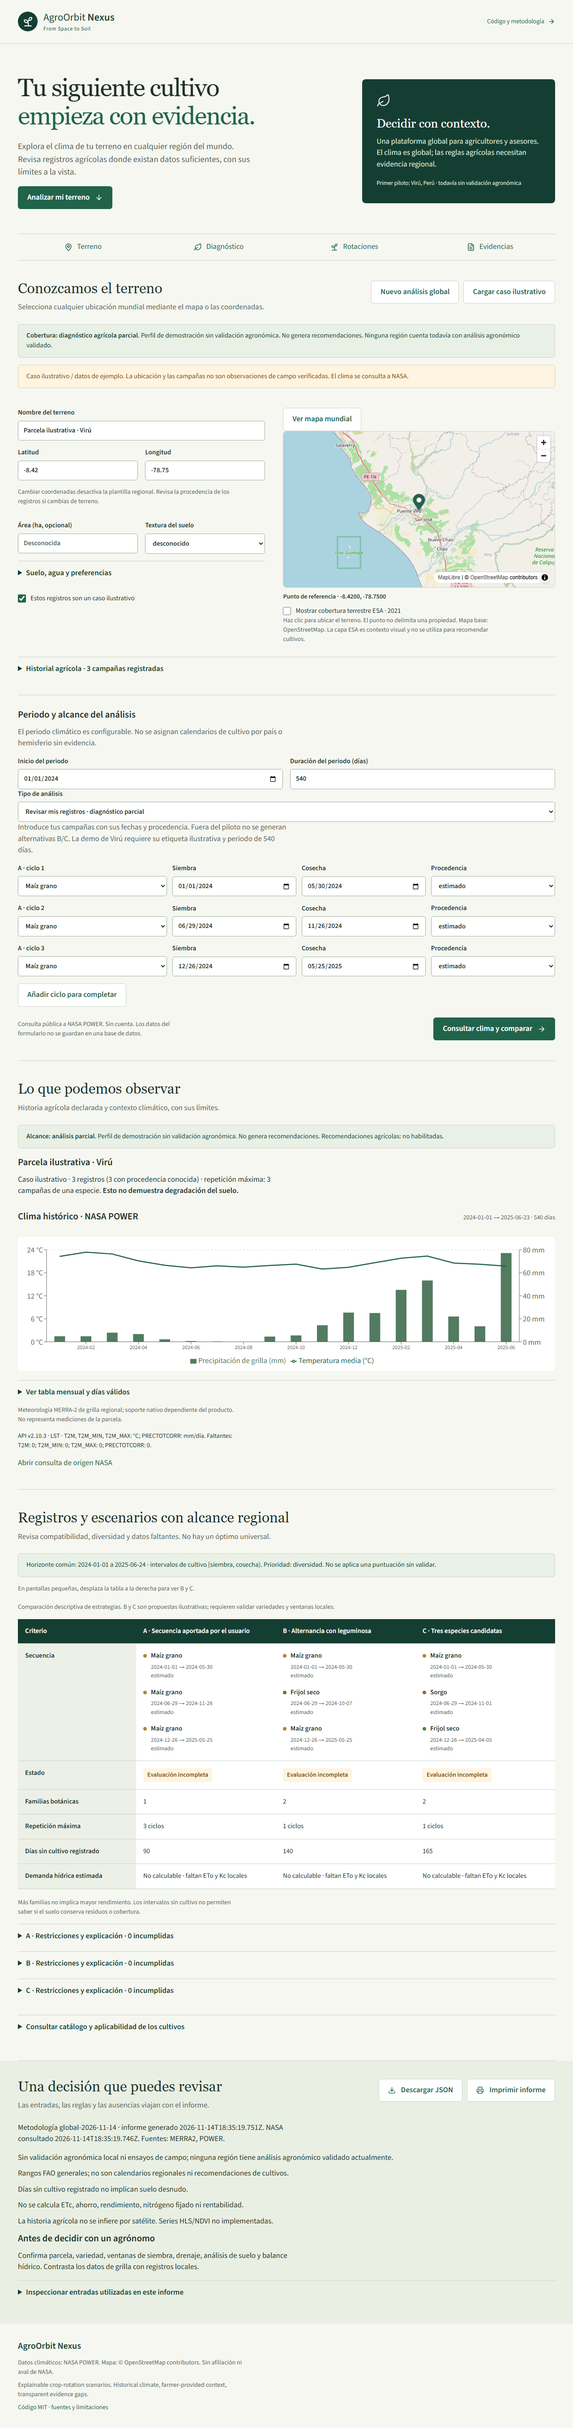
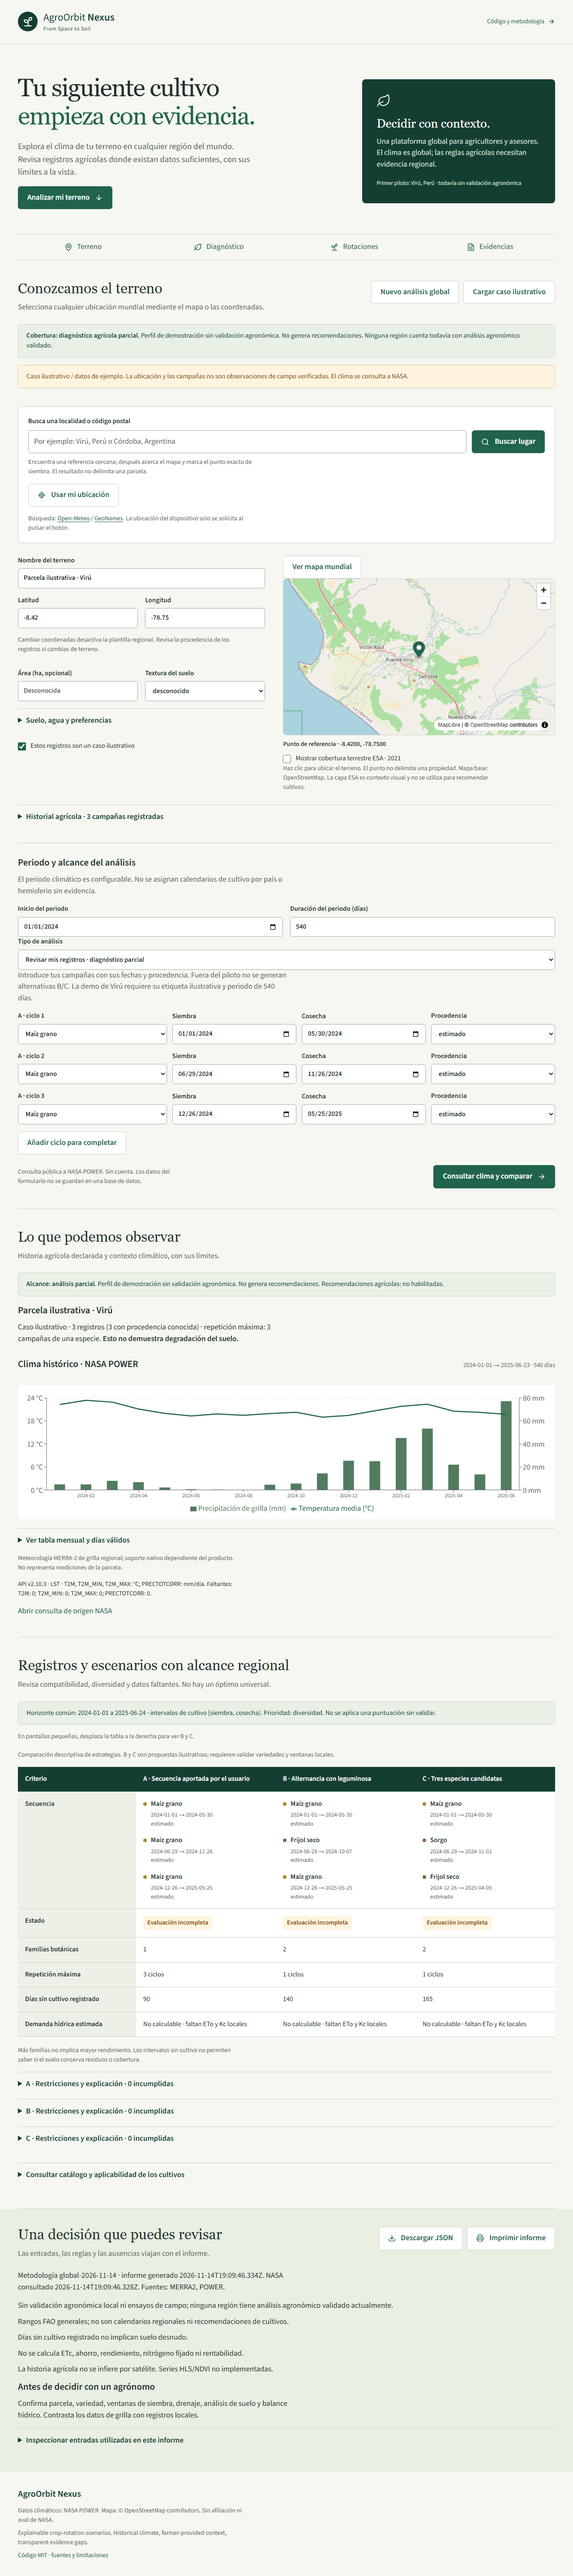
docs(terreno): registrar fuentes y pruebas de búsqueda accesible

diff --git a/docs/LOCATION_SEARCH.md b/docs/LOCATION_SEARCH.md
@@ -1,0 +1,28 @@
+# Encontrar el terreno
+
+Actualización 2026-11-14: buscador global de localidades/códigos postales y ubicación del dispositivo, accesibles desde el perfil agrícola.
+
+## Recorrido
+
+1. Escribir una localidad cercana; añadir país o región ayuda a distinguir homónimos. Pulsar «Buscar lugar» o Enter, sin enviar todavía el análisis climático.
+2. Elegir entre hasta cinco resultados con región, país y coordenadas. El mapa se centra y se acerca al punto de referencia.
+3. Ajustar el lugar de siembra con zoom/clic en el mapa o coordenadas. La búsqueda no identifica automáticamente una parcela ni sus límites.
+4. Si el usuario está en el terreno, «Usar mi ubicación» pide permiso al navegador y muestra la precisión aproximada comunicada por el dispositivo. No se consulta GPS al abrir la página ni se hace seguimiento continuo. Si cambió el punto mientras llegaba la respuesta GPS, se conserva la selección manual.
+
+Las búsquedas no generan recomendaciones ni activan el perfil regional de Virú. Se conserva la protección de alcance global. El nombre del terreno y los datos agronómicos siguen siendo aportados por el usuario.
+
+## Fuente y operación
+
+[Open-Meteo Geocoding](https://open-meteo.com/en/docs/geocoding-api), basado en GeoNames; atribución en la interfaz. Sirve para localidades/códigos postales, no garantiza nombres de fundos, direcciones de calles ni catastro. Solo se consulta tras una acción explícita, con término de 3–120 caracteres y máximo cinco coincidencias. No hay autocompletado por cada tecla.
+
+API de aplicación: `GET /api/locations?q=...`, validación Zod, timeout upstream 10 s, deduplicación y caché acotada a 128 términos por 24 h; máximo una nueva consulta por segundo y proceso. Fallos, ausencia de resultados y rate limit tienen mensajes y conservan las alternativas manuales. Para varias instancias se necesita limitación compartida y revisar cuotas del proveedor.
+
+Se usa el servicio gratuito para el prototipo no comercial; [sus condiciones](https://open-meteo.com/en/terms) requieren otro plan para uso comercial. Los datos tienen atribución CC BY 4.0; no se confunde esa licencia con las condiciones de acceso al servicio. No se añadieron claves, costes ni paquetes. El clima continúa consultándose a NASA POWER.
+
+La geolocalización requiere permiso y un contexto seguro; localhost permite probarla en navegadores compatibles. Puede fallar o ser poco precisa en un equipo de escritorio. La posición se mantiene en el formulario; al consultar clima se usan esas coordenadas. La app no envía la precisión GPS al buscador ni determina propiedad del terreno.
+
+## Evidencia
+
+`node scripts/verify-geocoding.mjs`: consulta real de «Virú, Perú», HTTP 200, cinco coincidencias; URL/fecha y respuesta original en `docs/evidence/search/`. No son cinco parcelas de campo validadas.
+
+Pruebas nuevas: normalización/ambigüedad/cero geográfico, límites, error upstream, cache/deduplicación; navegador con búsqueda real, actualización de coordenadas, ausencia de solicitud climática automática, GPS emulado con precisión, permiso denegado y caída simulada del buscador. El GPS real de hardware no fue medido. Capturas e inspección accesible: `docs/evidence/search/`.

diff --git a/docs/STATUS.md b/docs/STATUS.md
@@ -4,6 +4,8 @@ Actualizado: 2026-11-14, America/Lima. Al inicio había solo 16 documentos, sin 
 
 ## Actualización obligatoria de alcance global
 
+**Búsqueda más sencilla (misma fecha):** localidades/códigos postales con Open-Meteo/GeoNames, elección de coincidencia y acercamiento del mapa; GPS bajo permiso con precisión reportada y errores manejados. No se localizan límites ni se recomiendan cultivos por una búsqueda. Total actual: 69 pruebas unitarias/API aprobadas, 19 e2e aprobadas y dos repeticiones de capa omitidas. Lint/tipado/build correctos; consulta geocoding real guardada en evidence/search. GPS comprobado mediante emulación, no medición de hardware. La primera pasada detectó enlaces de atribución sin subrayado distinguible; corregidos y suite completa repetida. Véase LOCATION_SEARCH. Los totales globales anteriores de abajo corresponden al hito previo.
+
 Inicio mundial sin ubicación/campañas precargadas; modo clima global y revisión parcial de registros. Catálogo ampliable y perfiles regionales separados; plantilla de Virú limitada por coordenadas, modo ilustrativo y horizonte. Ninguna región validada ni recomendaciones habilitadas. Idiomas por registros de nombres ES/EN, sin interfaz completamente traducida. Capa contextual ESA WorldCover 2021 real y opcional, con atribución, año y límites; HLS/NDVI sigue pendiente.
 
 Seis consultas POWER reales verificadas (Perú, Estados Unidos, Francia, Kenia, India, Australia). Nueva pasada: 62 unitarias/API; 10 e2e aprobadas y dos comprobaciones de capa omitidas deliberadamente en móvil/tablet, con capa real probada en escritorio. Tipado/lint/build correctos. Detalles y contrato de extensión en GLOBAL_SCOPE; evidencia en evidence/global. La tabla histórica siguiente describe el hito inicial y no limita el alcance mundial actual.

diff --git a/docs/VALIDATION.md b/docs/VALIDATION.md
@@ -4,6 +4,8 @@ Entorno: Windows/PowerShell, Node 24.20.0, npm 11.19.0, Next 16.4.6. Zona de reg
 
 ## Ampliación global (misma fecha)
 
+**Hito de búsqueda posterior:** 69 unitarias/API en cuatro archivos, 19 e2e aprobadas y 2 omitidas de 21 configuradas. Nuevas pruebas de localidad real, elección ambigua, coordenadas actualizadas sin iniciar clima, GPS emulado con permiso/precisión, permiso denegado y buscador caído conservando el punto. Consulta real «Virú, Perú» HTTP 200; GPS físico no probado. Primera pasada: 9 fallos de accesibilidad `link-in-text-block` por enlaces nuevos de atribución; se subrayaron y la suite completa pasó. `npm run lint`, `typecheck`, `build` y detector Impeccable [] ejecutados. Evidencias específicas en evidence/search y LOCATION_SEARCH.
+
 62 pruebas unitarias/API aprobadas en tres archivos. Casos nuevos: seis fixtures NASA de países/hemisferios distintos, ausencia de recomendaciones globales, intentos de usar perfil peruano fuera de ámbito, periodos configurables, coordenadas polares y antimeridiano, revisión sin evidencia rechazada, catálogo ampliable y fallback de idioma. Tipado, lint y build ejecutados después de modificar el modelo.
 
 Playwright: 10 aprobadas y 2 omitidas explícitamente de 12 configuradas. Flujo global con consultas reales de California/India/Australia y JSON en escritorio/móvil/tablet; demo regional y error controlado conservados. WorldCover real probada en escritorio; esas dos pruebas de red no se duplicaron en móvil/tablet. axe sin violaciones en los estados globales comprobados; no es certificación WCAG. Capturas/informes en evidence/global.

diff --git a/docs/THIRD_PARTY_NOTICES.md b/docs/THIRD_PARTY_NOTICES.md
@@ -8,6 +8,7 @@ Código original: MIT, decisión del usuario 2026-11-14. `LICENSE` no cambia las
 | [FAO Crop Water Needs, cap. 3](https://www.fao.org/4/s2022e/s2022e07.htm), tabla 6 | Se extraen rangos factuales con atribución; no se redistribuyen manual ni figuras. No se presupone que toda publicación FAO tenga licencia MIT |
 | [FAO-56](https://www.fao.org/4/X0490E/X0490E00.htm) | Referencia de método, no cálculo hídrico implementado ni copia de manual |
 | [OpenStreetMap](https://www.openstreetmap.org/copyright) | Datos ODbL, cartografía estándar sujeta a política de teselas. Atribución visible. Carga interactiva desde `tile.openstreetmap.org`, sin descarga masiva/offline; disponibilidad sin garantía |
+| [Open-Meteo Geocoding](https://open-meteo.com/en/docs/geocoding-api) / GeoNames | Datos con atribución CC BY 4.0; API gratuita usada en prototipo no comercial, conforme a [condiciones de acceso](https://open-meteo.com/en/terms). No sustituye fuente climática NASA ni identifica propiedades |
 | MapLibre GL JS | BSD-3-Clause; motor de mapa |
 | [ESA WorldCover 2021 v200](https://esa-worldcover.org/en/data-access) / Terrascope | CC BY 4.0; capa WMS histórica opcional, con atribución visible al proyecto ESA y datos Copernicus Sentinel. No es producto NASA ni diagnóstico de cultivo |
 | Kew / Plants of the World Online | Referencias taxonómicas de nombres/familias; enlaces por especie en catálogo. No se reproducen textos, imágenes ni base de datos |

diff --git a/docs/DATA_SOURCES.md b/docs/DATA_SOURCES.md
@@ -4,6 +4,8 @@
 
 **Ampliación mundial:** POWER verificado en seis países, con respuestas separadas en evidence/global y sin transferir reglas del piloto. ESA WorldCover 2021 v200 está integrado como capa contextual opcional WMS, con licencia/atribución y límites del servicio; evidencia de capa, PNG, fecha y CORS en evidence/global/worldcover-service.json. No alimenta el evaluador agronómico ni implementa una serie temporal NDVI. Contratos y alcance actual en GLOBAL_SCOPE.
 
+**Búsqueda de referencia:** Open-Meteo Geocoding/GeoNames para localidades y códigos postales, con selección explícita de coincidencia. No identifica parcelas ni límites. Consulta real documentada en evidence/search; condiciones y caché en LOCATION_SEARCH. GPS usa la API del navegador con permiso; pruebas de posición emuladas, no ensayos de precisión de hardware.
+
 ## Evidencia de integración actual
 
 `npm run verify:nasa` guarda respuesta original y URL/fecha/unidades en `docs/evidence/power-viru-2024.json` y `power-request.json`: comunidad AG, T2M/T2M_MIN/T2M_MAX (C), PRECTOTCORR (mm/day), LST, API v2.10.3, 366 días de 2024, coordenadas -8.42/-78.75. Pruebas de navegador consultan además el horizonte 2024-01-01–2025-06-23 (540 días); el JSON exportado incluye consulta exacta y metadatos.

diff --git a/README.md b/README.md
@@ -17,7 +17,7 @@ Abrir http://127.0.0.1:3000. Para producción local: `npm run build` y `npm star
 
 ## Recorrido comprobable
 
-1. Seleccionar un punto en el mapa mundial o escribir latitud/longitud. Al iniciar no hay coordenadas ni campañas precargadas.
+1. Buscar una localidad/código postal, elegir un resultado y ajustar el punto en el mapa. También hay «Usar mi ubicación» con permiso del navegador y entrada manual de coordenadas. Al iniciar no hay coordenadas ni campañas precargadas. [Cómo encontrar el terreno](docs/LOCATION_SEARCH.md).
 2. Consultar clima global o registrar una secuencia propia para diagnóstico parcial. No se generan alternativas sin un perfil regional aplicable. Para reproducir el piloto, pulsar «Cargar caso ilustrativo».
 3. Elegir un periodo histórico de 30 a 731 días; solo la demo de Virú usa 540 días. Se descargan temperatura media/mínima/máxima y precipitación corregida de NASA POWER (comunidad AG, LST).
 4. Examinar gráfica, tabla mensual, unidades, días ausentes, fuente y fecha. La grilla no es una medición de la parcela.

diff --git a/docs/ARCHITECTURE.md b/docs/ARCHITECTURE.md
@@ -4,6 +4,8 @@
 
 ## Implementación real
 
+**Búsqueda de terreno:** `location-search.tsx` ofrece búsqueda explícita y GPS con permiso; `geocoding.ts` normaliza coincidencias y aplica caché/deduplicación/intervalo entre solicitudes; `/api/locations` valida y controla errores. El componente permite Enter sin enviar el formulario climático y conserva opciones manuales ante fallo. Detalles/condiciones: LOCATION_SEARCH.
+
 **Ampliación global:** `regions.ts` y `locales.ts` separan ámbito/validación/idioma; catálogo ampliable genera los IDs de validación; `examples/viru.ts` aísla el caso de demo. `sources.ts` registra fuentes y límites de WorldCover. Motor devuelve cero estrategias en clima global; fuera de la demo solo comprueba la secuencia aportada. Ninguna plantilla regional se aplica por defecto. El contrato de reglas está definido, pero no hay umbrales agronómicos regionales aprobados ni recomendaciones habilitadas. Véase GLOBAL_SCOPE.
 
 - `src/lib/model.ts`: Zod, fechas y contratos GeoFarm/ClimateScope.
